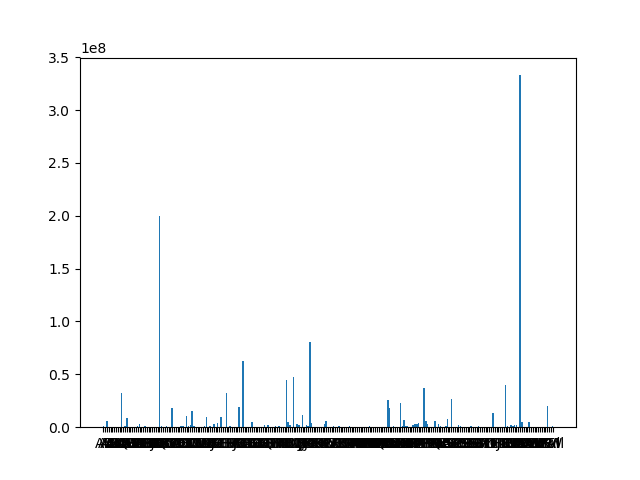
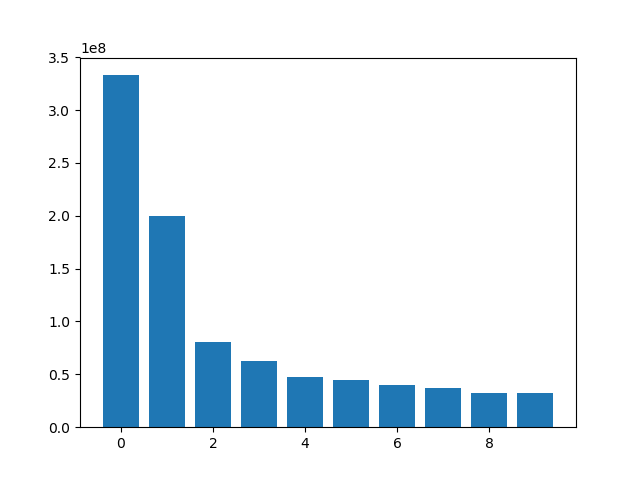
reducing graph size

Changed region(s): [[0.1562, 0.1562, 0.875, 0.9375]]

diff --git a/src/visualize.py b/src/visualize.py
@@ -36,11 +36,14 @@ if os.environ.get('DISPLAY','') == '':
     print('no display found. Using non-interactive Agg backend')
     mpl.use('Agg')
 import matplotlib.pyplot as plt
+import numpy as np
 
+items.sort(key=lambda x: x[1], reverse=True) 
 k = list(zip(*items))[0]
 v = list(zip(*items))[1]
+x_pos = np.arange(len(k)) 
 
-plt.bar(k,v, data=items)
+plt.bar(x_pos[0:10],v[0:10], data=items)
 argument = args.input_path
 key = args.key[1:]
 name = "{}.{}_graph.png".format(argument,key)
